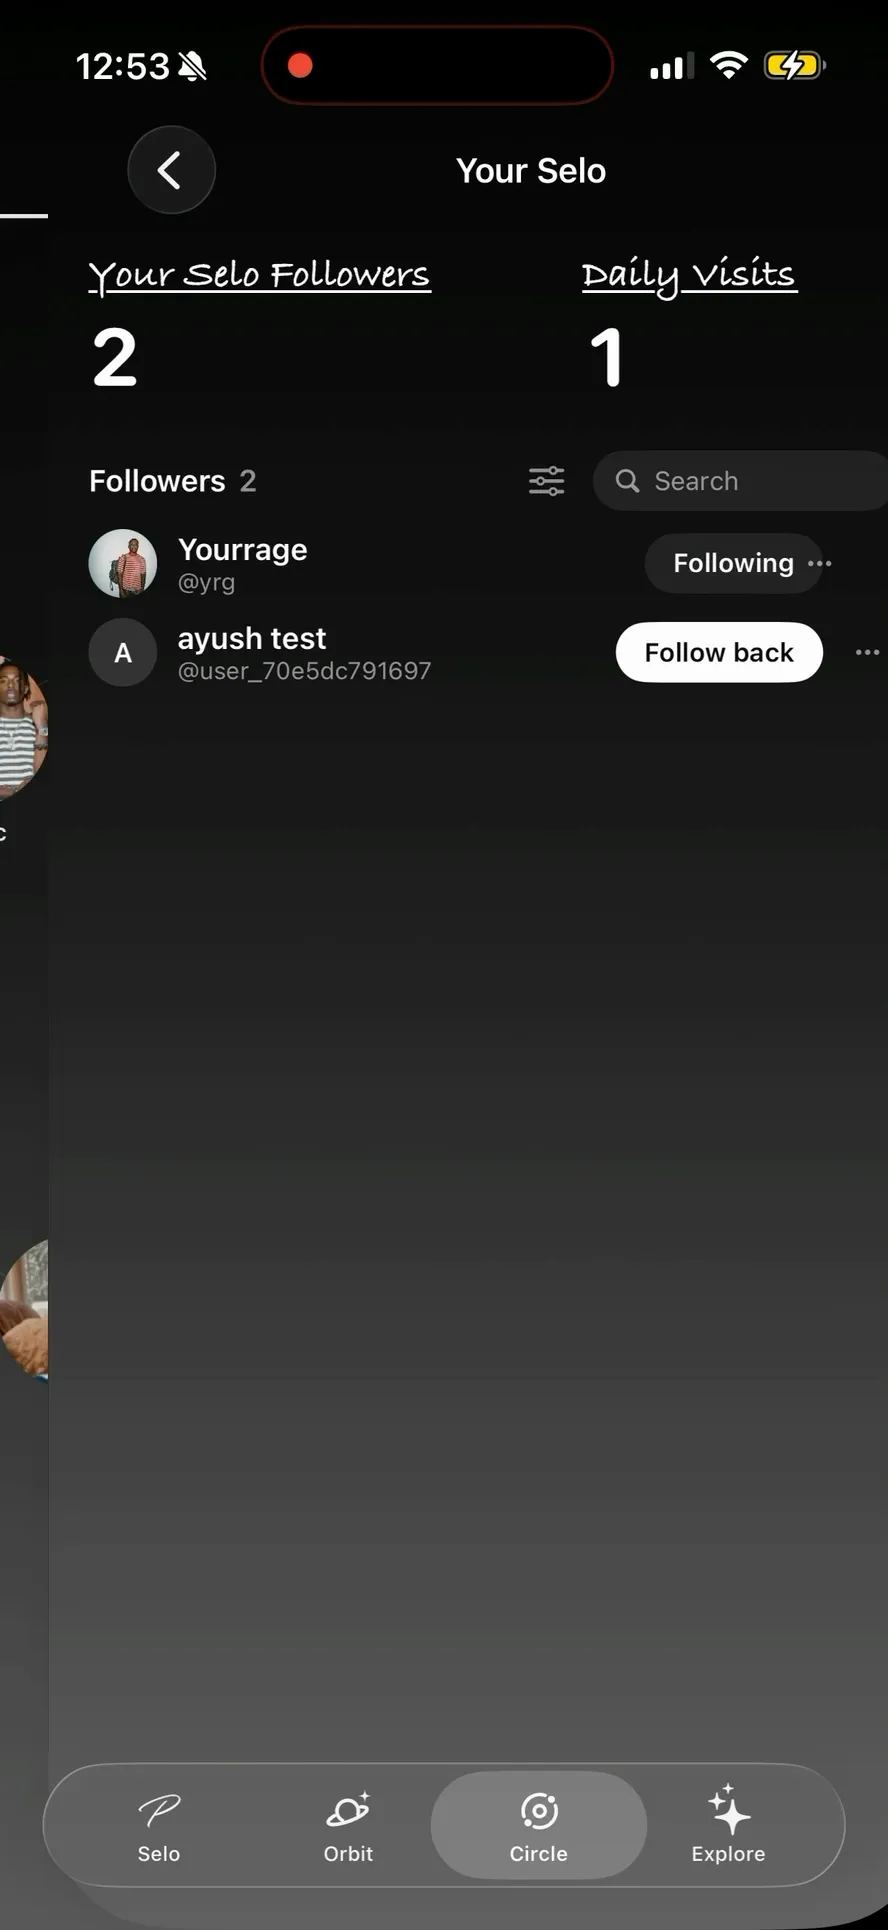
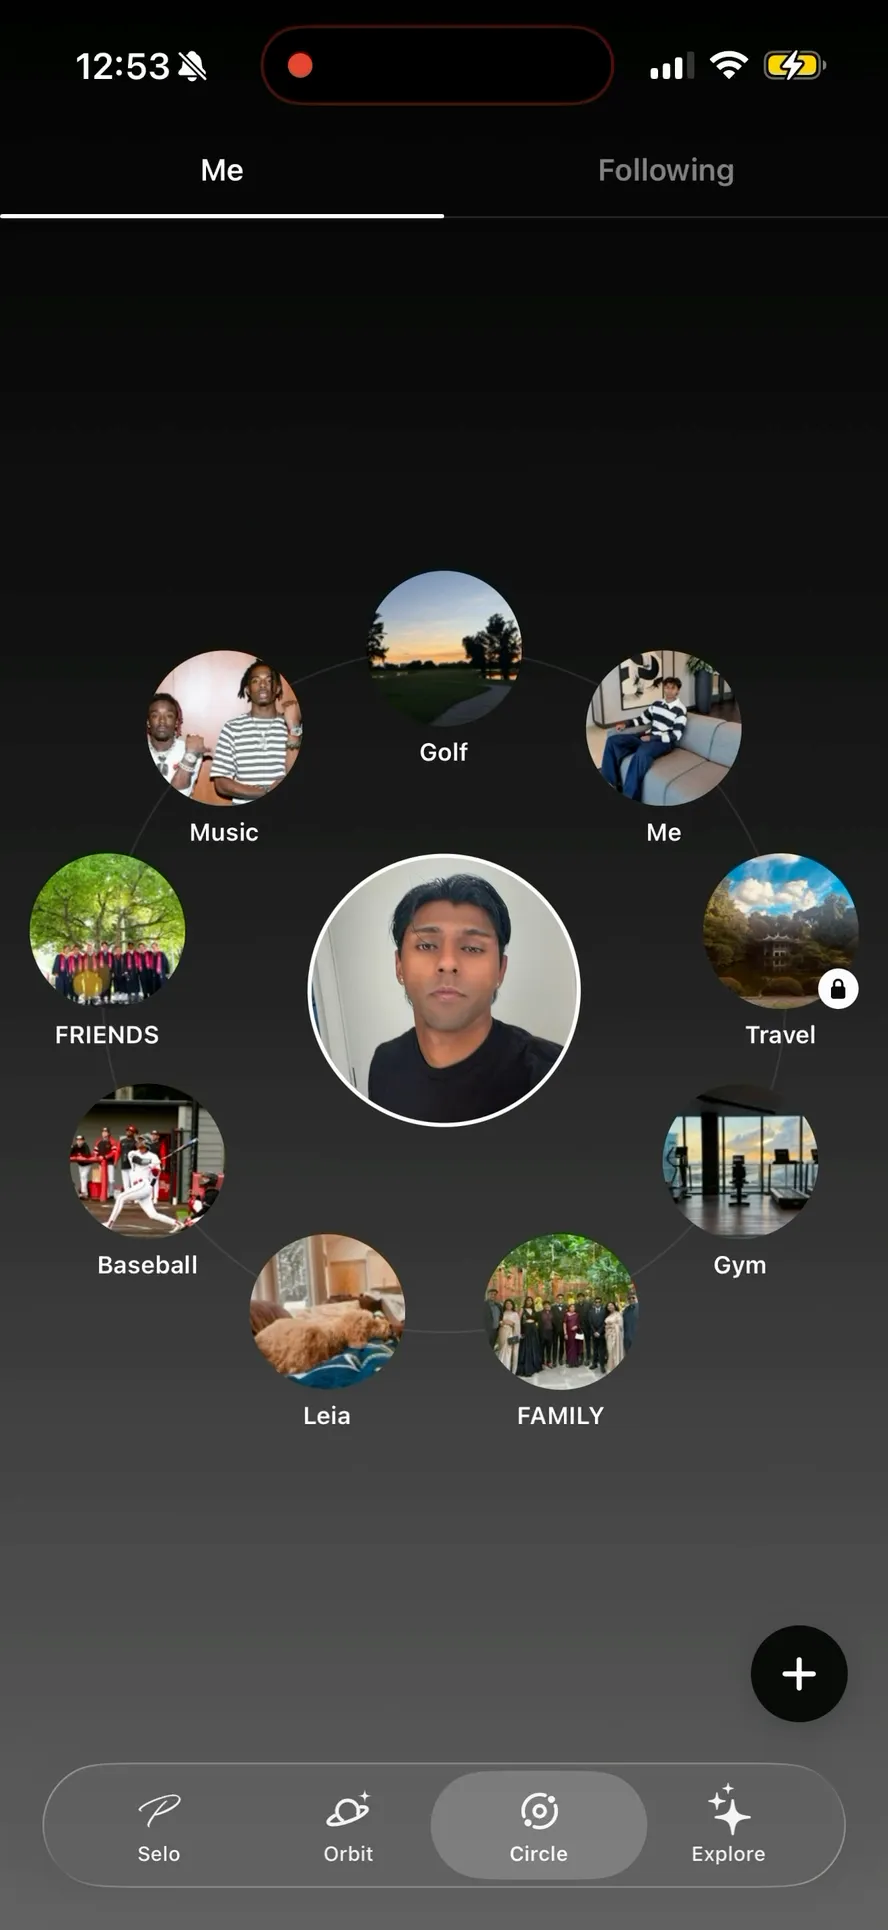
Autoplay only the Selo recording; use the Circle ring as its poster
- Orbit, Circle, and Explore start paused and play when the Play button is pressed
- Take the Circle poster from the ring of Pursuits at 7.5 seconds

diff --git a/src/components/app-preview.tsx b/src/components/app-preview.tsx
@@ -35,6 +35,7 @@ const screens = [
 const recordings = [
   {
     slug: "demo",
+    autoPlay: true,
     title: "Selo",
     copy: "Step from your Selo into each Pursuit.",
     label:
@@ -42,6 +43,7 @@ const recordings = [
   },
   {
     slug: "orbit",
+    autoPlay: false,
     title: "Orbit",
     copy: "Catch up on what\u2019s new from boards you follow.",
     label:
@@ -49,6 +51,7 @@ const recordings = [
   },
   {
     slug: "circle",
+    autoPlay: false,
     title: "Circle",
     copy: "Followers, daily visits, and who you follow.",
     label:
@@ -56,6 +59,7 @@ const recordings = [
   },
   {
     slug: "explore",
+    autoPlay: false,
     title: "Explore",
     copy: "Boards people choose to share, sorted your way.",
     label: "Screen recording of Explore in the Purselo app, browsing and sorting shared boards",
@@ -104,6 +108,7 @@ export function AppPreview() {
                   src={`/preview/purselo-${recording.slug}.mp4`}
                   poster={`/preview/purselo-${recording.slug}-poster.webp`}
                   label={recording.label}
+                  autoPlay={recording.autoPlay}
                 >
                   <h4 className="font-serif text-2xl tracking-[-0.02em] text-ink">{recording.title}</h4>
                   <p className="mt-2 text-sm leading-relaxed text-muted">{recording.copy}</p>

diff --git a/src/components/demo-video.tsx b/src/components/demo-video.tsx
@@ -7,12 +7,13 @@ type DemoVideoProps = {
   src: string;
   poster: string;
   label: string;
+  autoPlay?: boolean;
   children: React.ReactNode;
 };
 
-export function DemoVideo({ src, poster, label, children }: DemoVideoProps) {
+export function DemoVideo({ src, poster, label, autoPlay = true, children }: DemoVideoProps) {
   const videoRef = useRef<HTMLVideoElement>(null);
-  const pausedByUser = useRef(false);
+  const pausedByUser = useRef(!autoPlay);
   const [playing, setPlaying] = useState(false);
 
   useEffect(() => {
